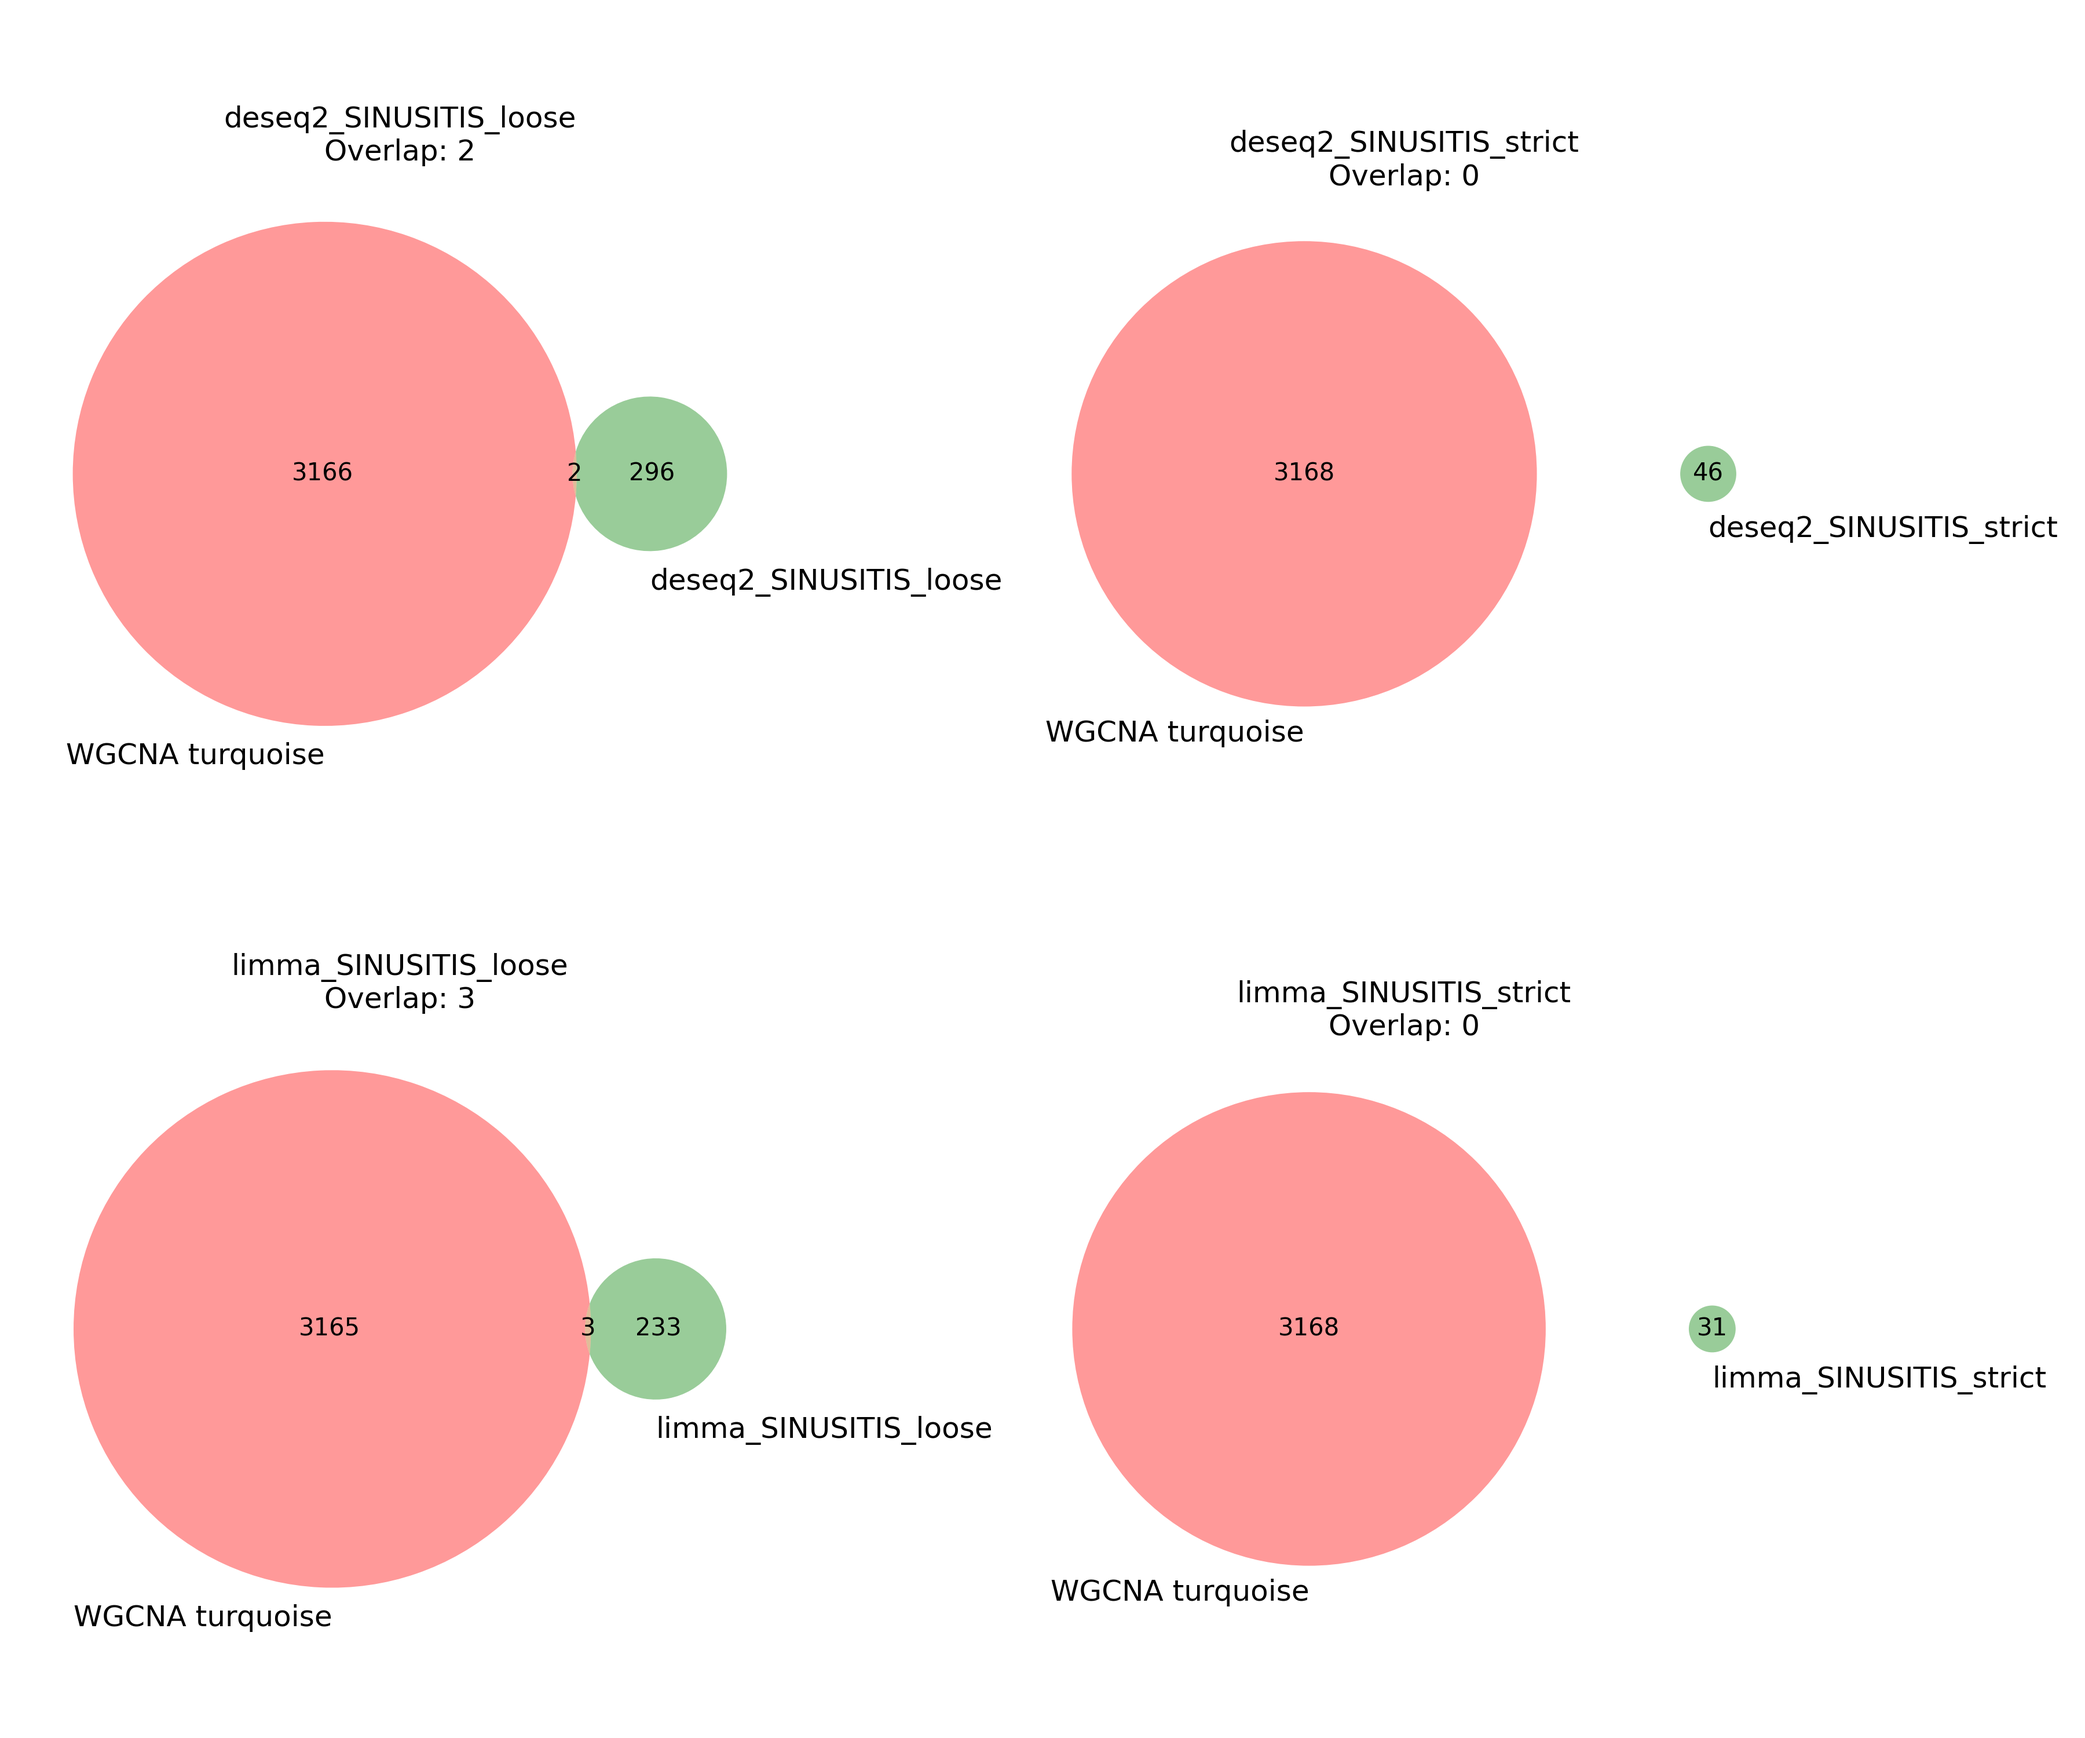
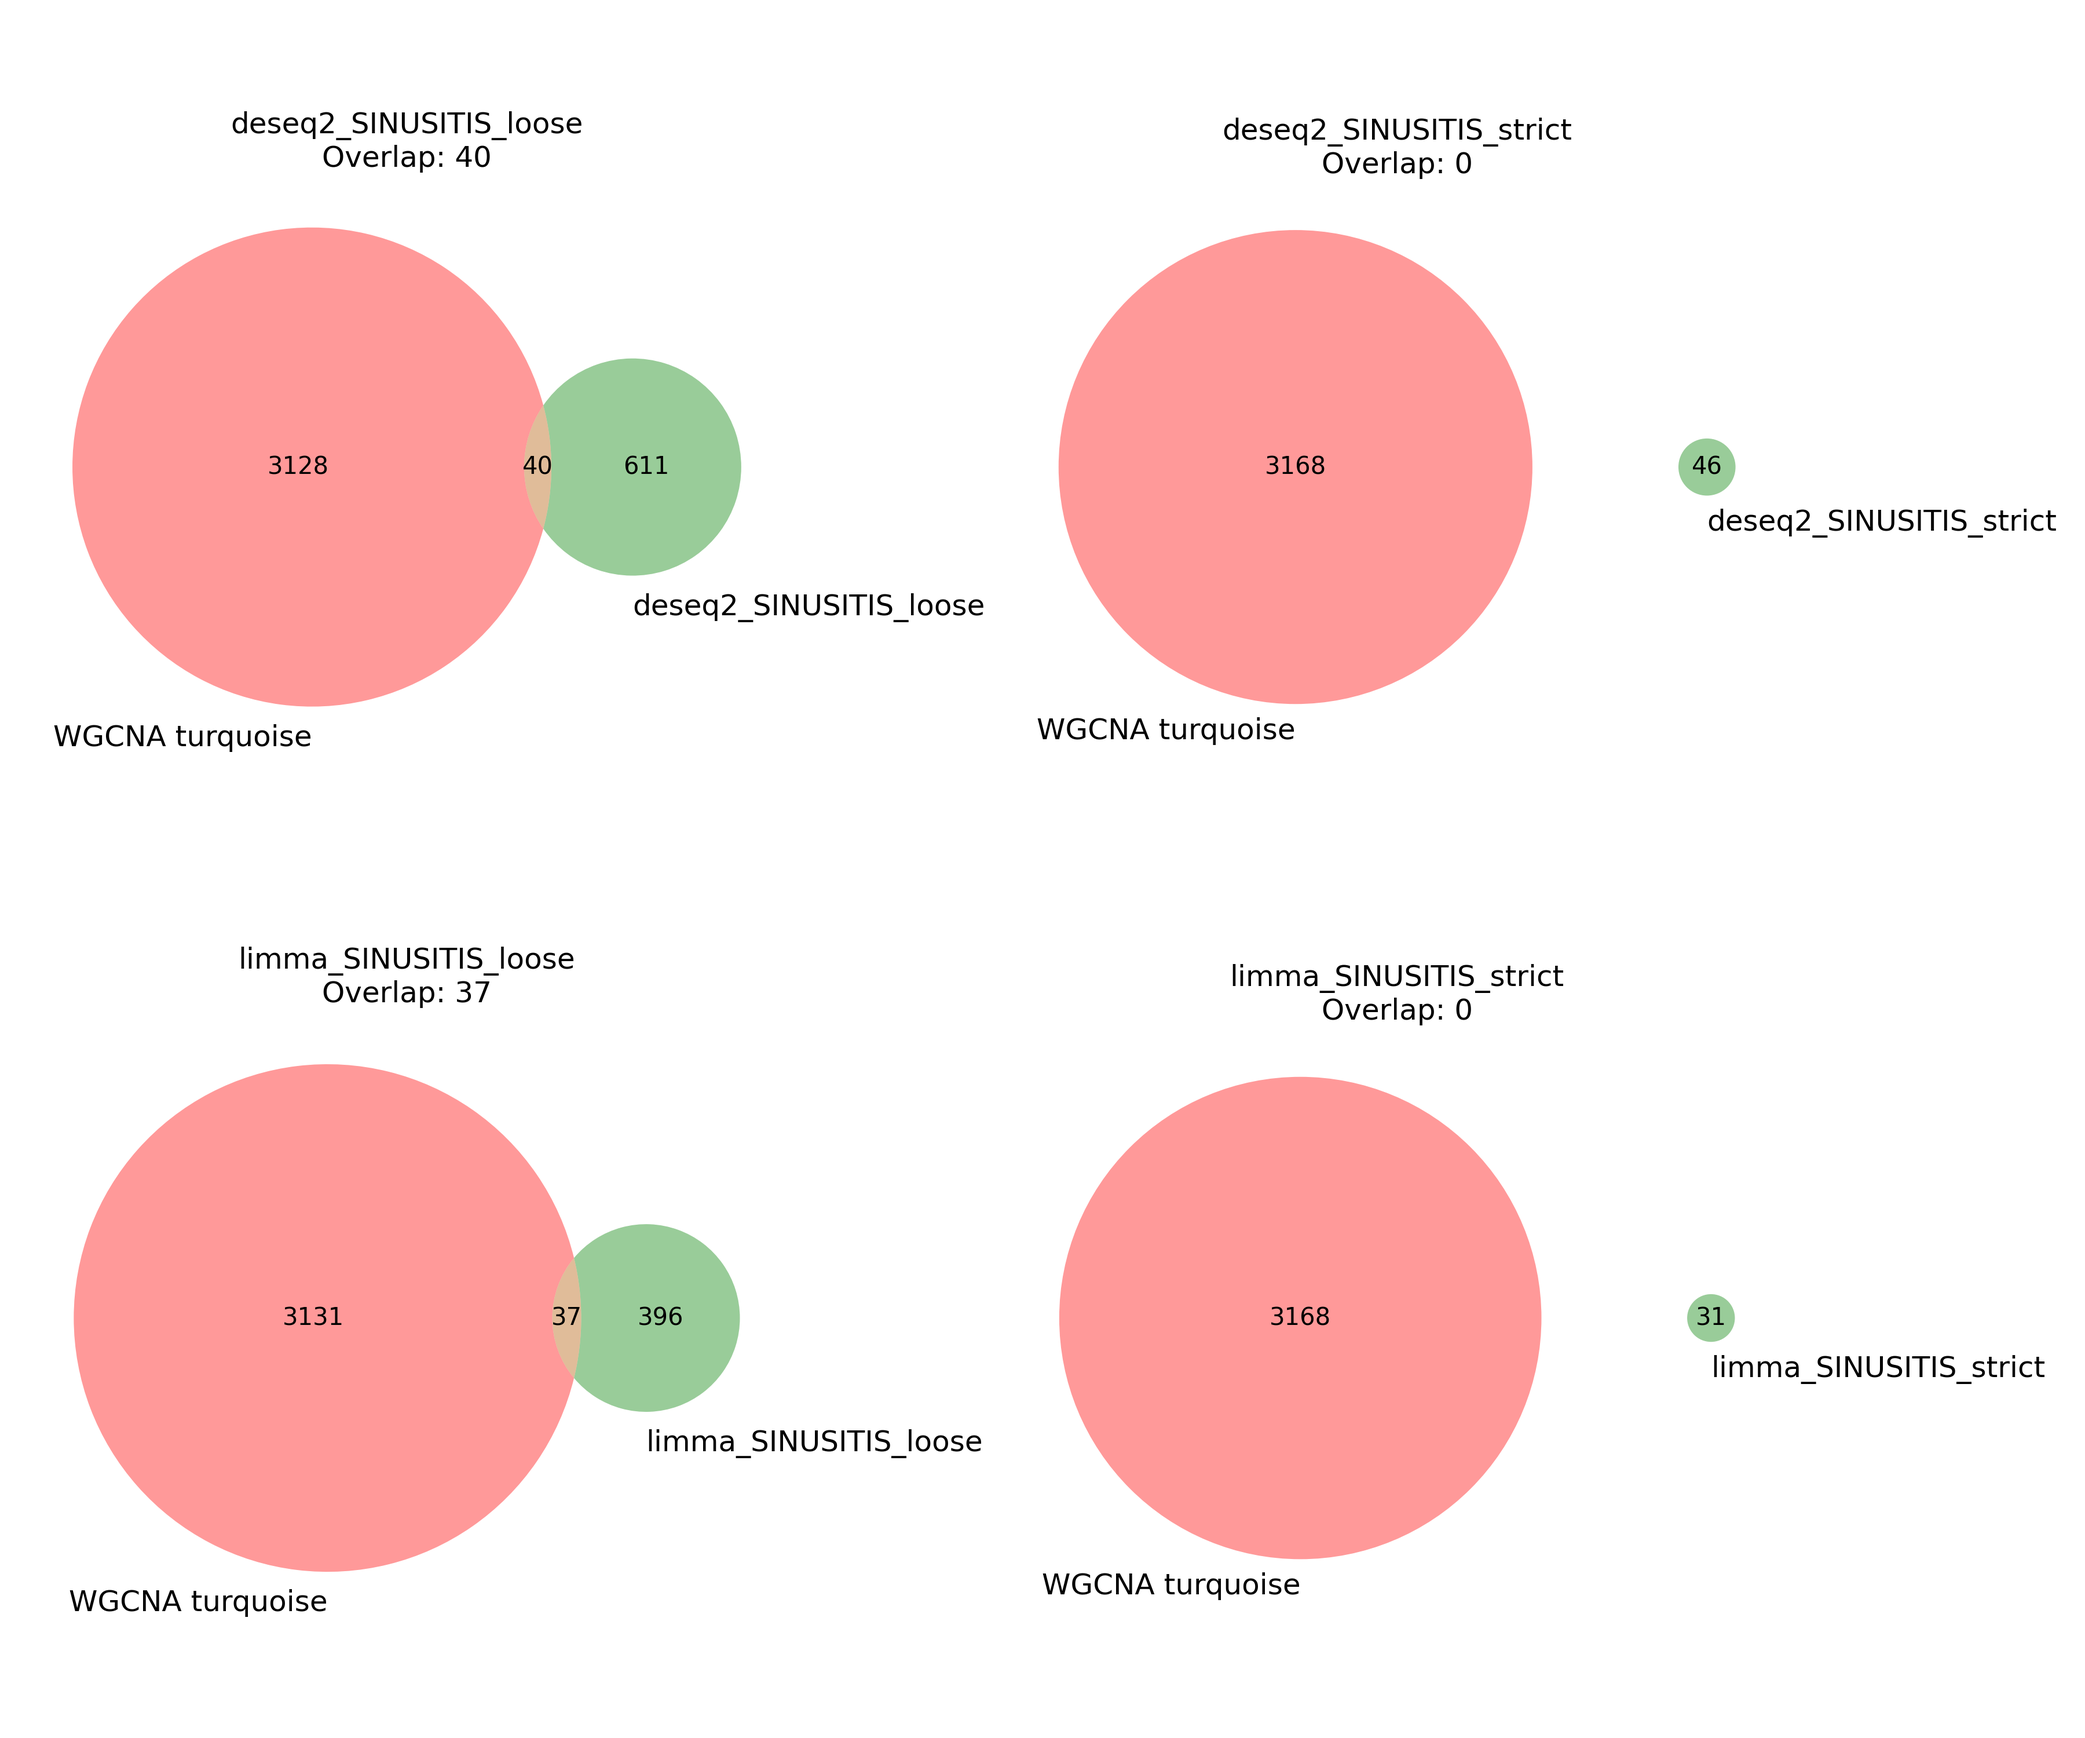
0

diff --git a/GO_KEGG.py b/GO_KEGG.py
@@ -7,8 +7,8 @@ import os
 from matplotlib.gridspec import GridSpec
 
 # ================= 1. 配置区域 =================
-INPUT_FILE = "/home/project/yihao/WGCNA_DEG_overlap_results/overlap_WGCNA_deseq2_GSE101521_loose.csv"
-OUTPUT_DIR = "/home/project/yihao/GO_KEGG"
+INPUT_FILE = "/home/project/yihao/SINUSITIS_WGCNA_DEG_overlap_results/overlap_WGCNA_deseq2_SINUSITIS_loose.csv"
+OUTPUT_DIR = "/home/project/yihao/SINUSITIS_GO_KEGG"
 COMBINED_FIGURE_NAME = "Final_Combined_Enrichment_Plot.png"
 
 if not os.path.exists(OUTPUT_DIR):

diff --git a/DEG_136825.py b/DEG_136825.py
@@ -30,7 +30,7 @@ CASE_LAB = 'Sinusitis'
 CTRL_LAB = 'Control'
 
 # 阈值配置
-L_LFC, L_PADJ = 0.58, 0.10  # 松 (1.5倍)
+L_LFC, L_PADJ = 0.38, 0.10  # 松 (1.5倍)
 S_LFC, S_PADJ = 1.0, 0.05   # 严 (2倍)
 
 for d in [LIMMA_OUT, DESEQ2_OUT]:
